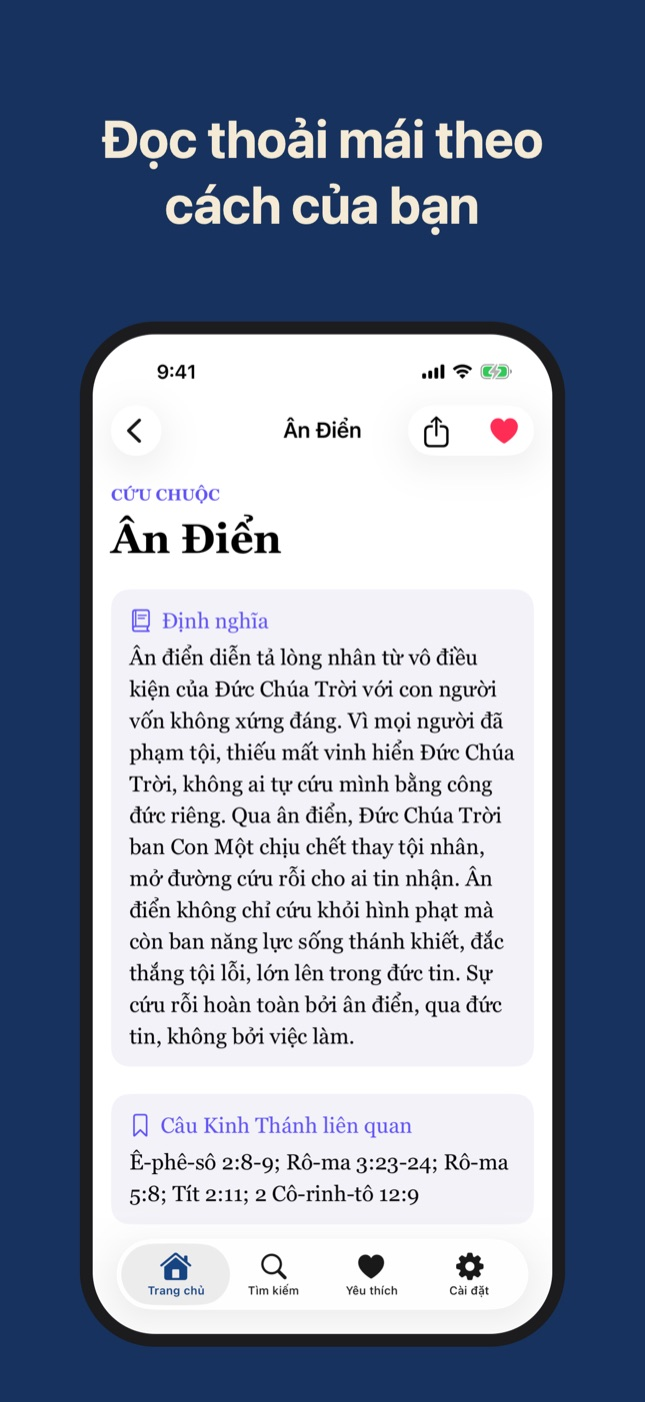
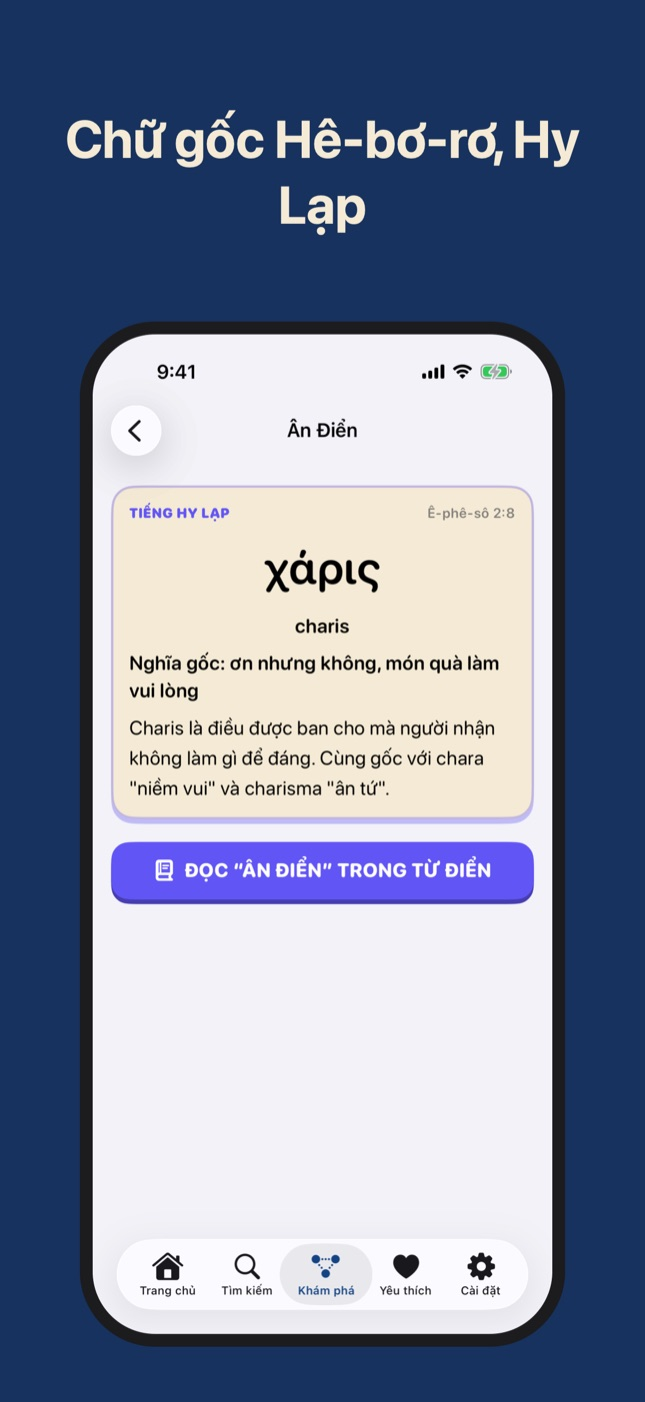
Update site for Từ Điển Kinh Thánh 1.0 (10): learning paths, relationship map, original-language roots
The live pages still described 1.0 (3) (1,000 terms, old icon and screenshots). Feature cards,
FAQ, icon and three screenshots now match build 10; privacy and terms dated 2026-11-12.

diff --git a/index.html b/index.html
@@ -24,8 +24,8 @@
   <section class="hero">
     <img class="app-icon" src="assets/icon.png" alt="Biểu tượng Từ Điển Kinh Thánh" width="128" height="128">
     <h1>Từ Điển Kinh Thánh</h1>
-    <p class="lead">1000 thuật ngữ, không cần mạng</p>
-    <p>Tra nhanh 1000 thuật ngữ Kinh Thánh bằng tiếng Việt, gõ không dấu vẫn ra. Mỗi ngày một từ mới, chọn cỡ chữ và phông chữ dễ đọc.</p>
+    <p class="lead">Chữ gốc, bản đồ, lộ trình học</p>
+    <p>2000 thuật ngữ Kinh Thánh tiếng Việt, mỗi mục vừa một màn hình. Lộ trình học có câu hỏi, bản đồ ai ở đâu, chữ gốc Hê-bơ-rơ và Hy Lạp.</p>
     <p class="store-note">Ứng dụng cho iPhone · sắp có trên App Store</p>
   </section>
 
@@ -37,33 +37,41 @@
 
   <section class="features" aria-label="Tính năng">
     <div class="card">
-      <h2>1000 thuật ngữ, 5 nhóm</h2>
-      <p>Nhân vật, địa danh, sự kiện, dụ ngôn và giáo lý trong Kinh Thánh, xếp vào Cứu chuộc, Kinh Thánh, Nhân vật, Thần học và Đời sống đức tin. Mỗi mục có định nghĩa và các câu Kinh Thánh liên quan.</p>
+      <h2>Lộ trình học</h2>
+      <p>6 lộ trình, mỗi lộ trình 10 bài: Làm quen với Kinh Thánh, Chúa Giê-xu là ai, Tin Lành trong mười chữ, Mười người mở đường, Hội Thánh đầu tiên, Sống đức tin mỗi ngày. Mỗi bài đọc một mục từ rồi trả lời một câu hỏi; xong bài này thì mở bài kế tiếp.</p>
+    </div>
+    <div class="card">
+      <h2>Bản đồ quan hệ</h2>
+      <p>Ai đã ở đâu, việc gì xảy ra ở đâu: 136 nhân vật, địa danh và sự kiện nối với nhau. Chạm Áp-ra-ham để thấy U-rơ, Cha-ran, Bê-tên, núi Mô-ri-a, rồi chạm tiếp để đi xa hơn.</p>
+    </div>
+    <div class="card">
+      <h2>Chữ gốc Hê-bơ-rơ và Hy Lạp</h2>
+      <p>111 thuật ngữ có chữ gốc, cách đọc, nghĩa đen và ghi chú tiếng Việt. Ân Điển là charis, món quà làm vui lòng; Bết-lê-hem là "nhà bánh".</p>
+    </div>
+    <div class="card">
+      <h2>2000 thuật ngữ, mỗi mục một màn hình</h2>
+      <p>Nhân vật, địa danh, sự kiện, dụ ngôn và giáo lý, xếp vào năm nhóm. Mỗi mục ngắn, có định nghĩa và các câu Kinh Thánh liên quan. Thêm cây gia phả, các tên gọi Tin Lành và Công giáo, và hình ảnh hay được giảng.</p>
+    </div>
+    <div class="card">
+      <h2>Lời răn nằm lòng</h2>
+      <p>101 lời răn ngắn, mỗi lời có diễn giải dễ hiểu và một việc nhỏ để thử hôm nay. Đánh dấu những lời bạn đã thuộc.</p>
     </div>
     <div class="card">
       <h2>Gõ không dấu vẫn tìm ra</h2>
-      <p>Tìm theo tên, một chữ trong định nghĩa hay một câu như "Rô-ma 8". Gõ "an dien" là ra Ân Điển, và mục đúng tên luôn đứng đầu.</p>
+      <p>Tìm theo tên, một chữ trong định nghĩa hay một câu như "Rô-ma 8". Gõ "an dien" là ra Ân Điển.</p>
     </div>
     <div class="card">
-      <h2>Từ của ngày</h2>
-      <p>Trang chủ mỗi ngày giới thiệu một thuật ngữ, đi hết cả 1000 từ rồi mới lặp lại.</p>
-    </div>
-    <div class="card">
-      <h2>Cỡ chữ và phông chữ của bạn</h2>
-      <p>Tăng giảm cỡ chữ cho cả ứng dụng, chọn một trong sáu phông chữ có sẵn trên iPhone. Đổi là thấy ngay, lần sau mở vẫn giữ.</p>
-    </div>
-    <div class="card">
-      <h2>Yêu thích và chia sẻ</h2>
-      <p>Lưu những từ bạn hay tra; gửi một thuật ngữ kèm định nghĩa và câu Kinh Thánh cho người thân qua bảng chia sẻ của iPhone.</p>
+      <h2>Cỡ chữ, phông chữ, Sáng và Tối</h2>
+      <p>Tăng giảm cỡ chữ cho cả ứng dụng, chọn một trong sáu phông chữ có sẵn trên iPhone, giao diện Sáng, Tối hoặc theo máy.</p>
     </div>
     <div class="card">
       <h2>Không cần mạng</h2>
-      <p>Toàn bộ từ điển nằm sẵn trong ứng dụng. Không tài khoản, không quảng cáo, không thu thập dữ liệu.</p>
+      <p>Toàn bộ nội dung nằm sẵn trong ứng dụng. Không tài khoản, không quảng cáo, không thu thập dữ liệu. Tiến độ học chỉ nằm trên máy của bạn.</p>
     </div>
   </section>
 </main>
 <footer>
-  <p>Cập nhật lần cuối: 23/10/2026 · © 2026 Dương Long Hồ ·
+  <p>Cập nhật lần cuối: 12/11/2026 · © 2026 Dương Long Hồ ·
     <a href="support.html">Hỗ trợ</a> · <a href="privacy.html">Quyền riêng tư</a> · <a href="terms.html">Điều khoản</a></p>
 </footer>
 </body>

diff --git a/support.html b/support.html
@@ -20,7 +20,7 @@
 </header>
 <main>
   <h1>Hỗ trợ</h1>
-  <p class="updated">Cập nhật lần cuối: 23/10/2026</p>
+  <p class="updated">Cập nhật lần cuối: 12/11/2026</p>
 
   <div class="summary">
     <p><strong>Liên hệ:</strong> <a href="mailto:lotuslongho@gmail.com">lotuslongho@gmail.com</a></p>
@@ -33,7 +33,7 @@
   <h2>Hỏi đáp</h2>
   <details>
     <summary>Có cần mạng không?</summary>
-    <p>Không. Cả 1000 thuật ngữ nằm sẵn trong ứng dụng, dùng được cả ở chế độ máy bay.</p>
+    <p>Không. Cả 2000 thuật ngữ, lộ trình học, bản đồ và chữ gốc nằm sẵn trong ứng dụng, dùng được cả ở chế độ máy bay.</p>
   </details>
   <details>
     <summary>Gõ không dấu có tìm được không?</summary>
@@ -45,11 +45,15 @@
   </details>
   <details>
     <summary>Từ của ngày đổi khi nào?</summary>
-    <p>Mỗi ngày một từ, theo ngày trên máy của bạn. Cả 1000 từ đều được giới thiệu trước khi một từ quay lại.</p>
+    <p>Mỗi ngày một từ, theo ngày trên máy của bạn. Cả 2000 từ đều được giới thiệu trước khi một từ quay lại.</p>
   </details>
   <details>
     <summary>Câu Kinh Thánh theo bản dịch nào?</summary>
-    <p>Định nghĩa viết riêng cho ứng dụng; câu Kinh Thánh dẫn theo chương và câu, trích ngắn theo bản Truyền Thống 1926.</p>
+    <p>Định nghĩa viết riêng cho ứng dụng, soạn với sự hỗ trợ của AI; câu Kinh Thánh dẫn theo chương và câu, trích ngắn theo bản Truyền Thống 1926. Thấy chỗ nào chưa đúng, xin gửi thư qua trang Hỗ trợ.</p>
+  </details>
+  <details>
+    <summary>Tiến độ lộ trình học lưu ở đâu?</summary>
+    <p>Trên máy của bạn. Xoá ứng dụng thì tiến độ mất theo; không có tài khoản hay đồng bộ.</p>
   </details>
   <details>
     <summary>Có tiếng Anh không?</summary>
@@ -61,7 +65,7 @@
   </details>
 </main>
 <footer>
-  <p>Cập nhật lần cuối: 23/10/2026 · © 2026 Dương Long Hồ ·
+  <p>Cập nhật lần cuối: 12/11/2026 · © 2026 Dương Long Hồ ·
     <a href="./">Trang chủ</a> · <a href="privacy.html">Quyền riêng tư</a> · <a href="terms.html">Điều khoản</a></p>
 </footer>
 </body>

diff --git a/privacy.html b/privacy.html
@@ -23,7 +23,7 @@
 <main>
   <section lang="vi">
     <h1>Chính sách quyền riêng tư</h1>
-    <p class="updated">Cập nhật lần cuối: 23/10/2026</p>
+    <p class="updated">Cập nhật lần cuối: 12/11/2026</p>
 
     <p class="summary"><strong>Từ Điển Kinh Thánh không thu thập dữ liệu nào.</strong> Từ điển, yêu thích và lịch sử tra cứu chỉ nằm trên máy của bạn.</p>
 
@@ -49,7 +49,7 @@
 
   <section lang="en" id="en">
     <h1>Privacy Policy</h1>
-    <p class="updated">Last updated: 2026-10-23</p>
+    <p class="updated">Last updated: 2026-11-12</p>
 
     <p class="summary"><strong>Từ Điển Kinh Thánh collects no data.</strong> The dictionary, your favourites and your lookup history stay on your phone.</p>
 
@@ -74,7 +74,7 @@
   </section>
 </main>
 <footer>
-  <p>Cập nhật lần cuối / Last updated: 23/10/2026 (2026-10-23) · © 2026 Dương Long Hồ</p>
+  <p>Cập nhật lần cuối / Last updated: 12/11/2026 (2026-11-12) · © 2026 Dương Long Hồ</p>
 </footer>
 </body>
 </html>

diff --git a/terms.html b/terms.html
@@ -19,7 +19,7 @@
 </header>
 <main>
   <h1>Điều khoản sử dụng</h1>
-  <p class="updated">Cập nhật lần cuối: 23/10/2026</p>
+  <p class="updated">Cập nhật lần cuối: 12/11/2026</p>
 
   <h2>Ứng dụng này là gì</h2>
   <p>Từ Điển Kinh Thánh là từ điển tham khảo các thuật ngữ Kinh Thánh. Ứng dụng miễn phí, cung cấp nguyên trạng, không kèm bảo đảm. Định nghĩa trong ứng dụng là phần giải thích để tham khảo; khi học hay giảng dạy, xin đối chiếu với chính Kinh Thánh.</p>
@@ -37,7 +37,7 @@
   <p><a href="mailto:lotuslongho@gmail.com">lotuslongho@gmail.com</a></p>
 </main>
 <footer>
-  <p>Cập nhật lần cuối: 23/10/2026 · © 2026 Dương Long Hồ ·
+  <p>Cập nhật lần cuối: 12/11/2026 · © 2026 Dương Long Hồ ·
     <a href="./">Trang chủ</a> · <a href="support.html">Hỗ trợ</a> · <a href="privacy.html">Quyền riêng tư</a></p>
 </footer>
 </body>

diff --git a/style.css b/style.css
@@ -86,6 +86,9 @@ h2 { font-size: 1.3rem; margin: 32px 0 8px; }
   color: #ffffff;
   font-weight: 600;
 }
+/* Đã lên kho: cùng viên thuốc, thành liên kết tới trang App Store (package.json → APP_STORE_URL). */
+a.store-note { text-decoration: none; }
+a.store-note:hover, a.store-note:focus-visible { background: var(--brand-deep); }
 
 .shots {
   display: flex;
